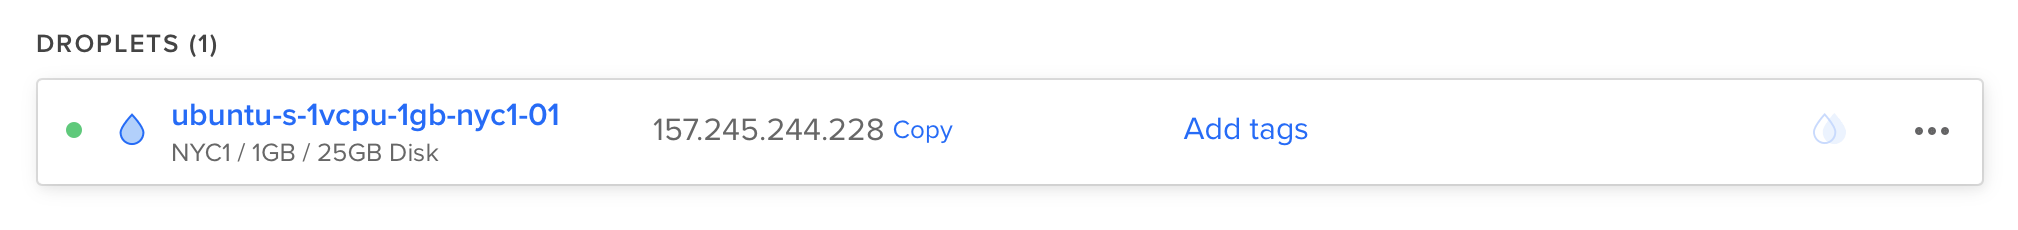
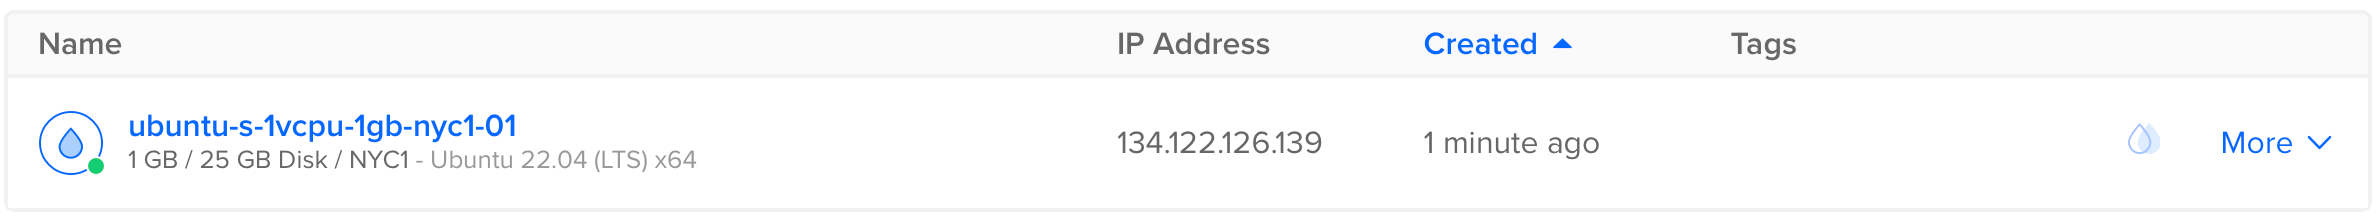
Update Digital Ocean deploy

diff --git a/docs/deploy/digital-ocean.md b/docs/deploy/digital-ocean.md
@@ -1,6 +1,6 @@
 # Deploying to DigitalOcean
 
-This guide will walk you through deploying a simple Hello, world Vapor application to a [Droplet](https://www.digitalocean.com/products/droplets/). To follow this guide, you will need to have a [DigitalOcean](https://www.digitalocean.com) account with billing configured.
+This guide will walk you through deploying a simple Hello, world Vapor application to a [Droplet](https://www.digitalocean.com/products/droplets/). To follow this guide, you must have a [DigitalOcean](https://www.digitalocean.com) account with billing configured.
 
 ## Create Server
 
@@ -8,12 +8,12 @@ Let's start by installing Swift on a Linux server. Use the create menu to create
 
 ![Create Droplet](../images/digital-ocean-create-droplet.png)
 
-Under distributions, select Ubuntu 18.04 LTS. The following guide will use this version as an example.
+Under distributions, select Ubuntu 22.04 LTS. The following guide will use this version as an example.
 
-![Ubuntu Distro](../images/digital-ocean-distributions-ubuntu-18.png)
+![Ubuntu Distro](../images/digital-ocean-distributions-ubuntu.png)
 
 !!! note 
-	You may select any Linux distribution with a version that Swift supports. At the time of writing, Swift 5.2.4 supports Ubuntu 16.04, 18.04, 20.04, CentOS 8, and Amazon Linux 2. You can check which operating systems are officially supported on the [Swift Releases](https://swift.org/download/#releases) page.
+	You may select any Linux distribution with a version that Swift supports. At the time of writing, Swift 5.7.3 supports Ubuntu 18.04, 20.04, 22.04, CentOS 7, and Amazon Linux 2. You can check which operating systems are officially supported on the [Swift Releases](https://swift.org/download/#releases) page.
 
 After selecting the distribution, choose any plan and datacenter region you prefer. Then setup an SSH key to access the server after it is created. Finally, click create Droplet and wait for the new server to spin up.
 
@@ -29,7 +29,7 @@ Open your terminal and connect to the server as root using SSH.
 ssh root@your_server_ip
 ```
 
-DigitalOcean has an in-depth guide for [initial server setup on Ubuntu 18.04](https://www.digitalocean.com/community/tutorials/initial-server-setup-with-ubuntu-18-04). This guide will quickly cover the basics.
+DigitalOcean has an in-depth guide for [initial server setup on Ubuntu 22.04](https://www.digitalocean.com/community/tutorials/initial-server-setup-with-ubuntu-22-04). This guide will quickly cover the basics.
 
 ### Configure Firewall
 
@@ -77,38 +77,40 @@ Install Swift's required dependencies.
 
 ```sh
 sudo apt-get update
-sudo apt-get install clang libicu-dev libatomic1 build-essential pkg-config
+sudo apt-get install binutils git gnupg2 libc6-dev libcurl4-openssl-dev 
+	 \ libedit2 libgcc-9-dev libpython3.8 libsqlite3-0 libstdc++-9-dev 
+	 \ libxml2-dev libz3-dev pkg-config tzdata unzip zlib1g-dev
 ```
 
-### Download Toolchain
+### Download Swift Toolchain
 
-This guide will install Swift 5.2.4. Visit the [Swift Releases](https://swift.org/download/#releases) page for a link to latest release. Copy the download link for Ubuntu 18.04.
+This guide will install Swift 5.7.3. Visit the [Swift Releases](https://swift.org/download/#releases) page for a link to latest release. Copy the download link for Ubuntu 22.04.
 
-![Download Swift](../images/swift-download-ubuntu-18-copy-link.png)
+![Download Swift](../images/swift-download-ubuntu-copy-link.png)
 
 Download and decompress the Swift toolchain.
 
 ```sh
-wget https://swift.org/builds/swift-5.2.4-release/ubuntu1804/swift-5.2.4-RELEASE/swift-5.2.4-RELEASE-ubuntu18.04.tar.gz
-tar xzf swift-5.2.4-RELEASE-ubuntu18.04.tar.gz
+wget https://download.swift.org/swift-5.7.3-release/ubuntu2204/swift-5.7.3-RELEASE/swift-5.7.3-RELEASE-ubuntu22.04.tar.gz
+tar xzf swift-5.7.3-RELEASE-ubuntu22.04.tar.gz
 ```
 
 !!! note
 	Swift's [Using Downloads](https://swift.org/download/#using-downloads) guide includes information on how to verify downloads using PGP signatures.
 
-### Install Toolchain
+### Install Swift Toolchain
 
 Move Swift somewhere easy to acess. This guide will use `/swift` with each compiler version in a subfolder. 
 
 ```sh
 sudo mkdir /swift
-sudo mv swift-5.2.4-RELEASE-ubuntu18.04 /swift/5.2.4
+sudo mv swift-5.7.3-RELEASE-ubuntu22.04 /swift/5.7.3
 ```
 
 Add Swift to `/usr/bin` so it can be executed by `vapor` and `root`.
 
 ```sh
-sudo ln -s /swift/5.2.4/usr/bin/swift /usr/bin/swift
+sudo ln -s /swift/5.7.3/usr/bin/swift /usr/bin/swift
 ```
 
 Verify that Swift was installed correctly.
@@ -117,59 +119,79 @@ Verify that Swift was installed correctly.
 swift --version
 ```
 
-## Setup Project
+## Install Vapor Using the Vapor Toolbox
 
-Now that Swift is installed, let's clone and compile your project. For this example, we'll be using Vapor's [API template](https://github.com/vapor/api-template/).
+Now that Swift is installed, let's install Vapor using the Vapor Toolbox. You will need to build the toolbox from source. View the toolbox's [releases](https://github.com/vapor/toolbox/releases) on GitHub to find the latest version. In this example, we are using 18.6.0.
 
-First let's install Vapor's system dependencies.
+### Clone and Build Vapor
+
+Clone the Vapor Toolbox repository.
 
 ```sh
-sudo apt-get install openssl libssl-dev zlib1g-dev libsqlite3-dev
+git clone https://github.com/vapor/toolbox.git
 ```
 
-Allow HTTP through the firewall.
+Checkout the latest release.
+
+```sh
+cd toolbox
+git checkout 18.6.0
+```
+
+Build Vapor and move the binary into your path.
+
+```sh
+swift build -c release --disable-sandbox --enable-test-discovery
+sudo mv .build/release/vapor /usr/local/bin
+```
+
+### Create a Vapor Project
+
+Use the Toolbox's new project command to initiate a project.
+
+```sh
+vapor new HelloWorld -n
+```
+
+!!! tip
+	The `-n` flag gives you a bare bones template by automatically answering no to all questions.
+
+
+![Vapor Splash](../images/vapor-splash.png)
+
+Once the command finishes, change into the newly created folder:
+
+```sh
+cd HelloWorld
+``` 
+
+### Open HTTP Port
+
+In order to access Vapor on your server, open the HTTP port.
 
 ```sh
 sudo ufw allow http
 ```
 
-### Clone & Build
-
-Now clone the project and build it.
-
-```sh
-git clone https://github.com/vapor/api-template.git
-cd api-template
-swift build
-```
-
-!!! tip
-	If you are building this project for production, use `swift build -c release`
-
 ### Run
 
-Once the project has finished compiling, run it on your server's IP at port 80. The IP address is `157.245.244.228` in this example.
+Now that Vapor is setup and we have port 80 open, let's run it. 
 
 ```sh
-sudo .build/debug/Run serve -b 157.245.244.228:80
+vapor run serve --hostname 0.0.0.0 --port 80 &
 ```
 
-If you used `swift build -c release`, then you need to run:
-```sh
-sudo .build/release/Run serve -b 157.245.244.228:80
-```
-
-Visit your server's IP via browser or local terminal and you should see "It works!".
+Visit your server's IP via browser or local terminal and you should see "It works!". The IP address is `134.122.126.139` in this example.
 
 ```
-$ curl http://157.245.244.228
+$ curl http://134.122.126.139
 It works!
 ```
 
 Back on your server, you should see logs for the test request.
 
 ```
-[ NOTICE ] Server starting on http://157.245.244.228:80
+[ NOTICE ] Server starting on http://0.0.0.0:80
 [ INFO ] GET /
 ```
 
